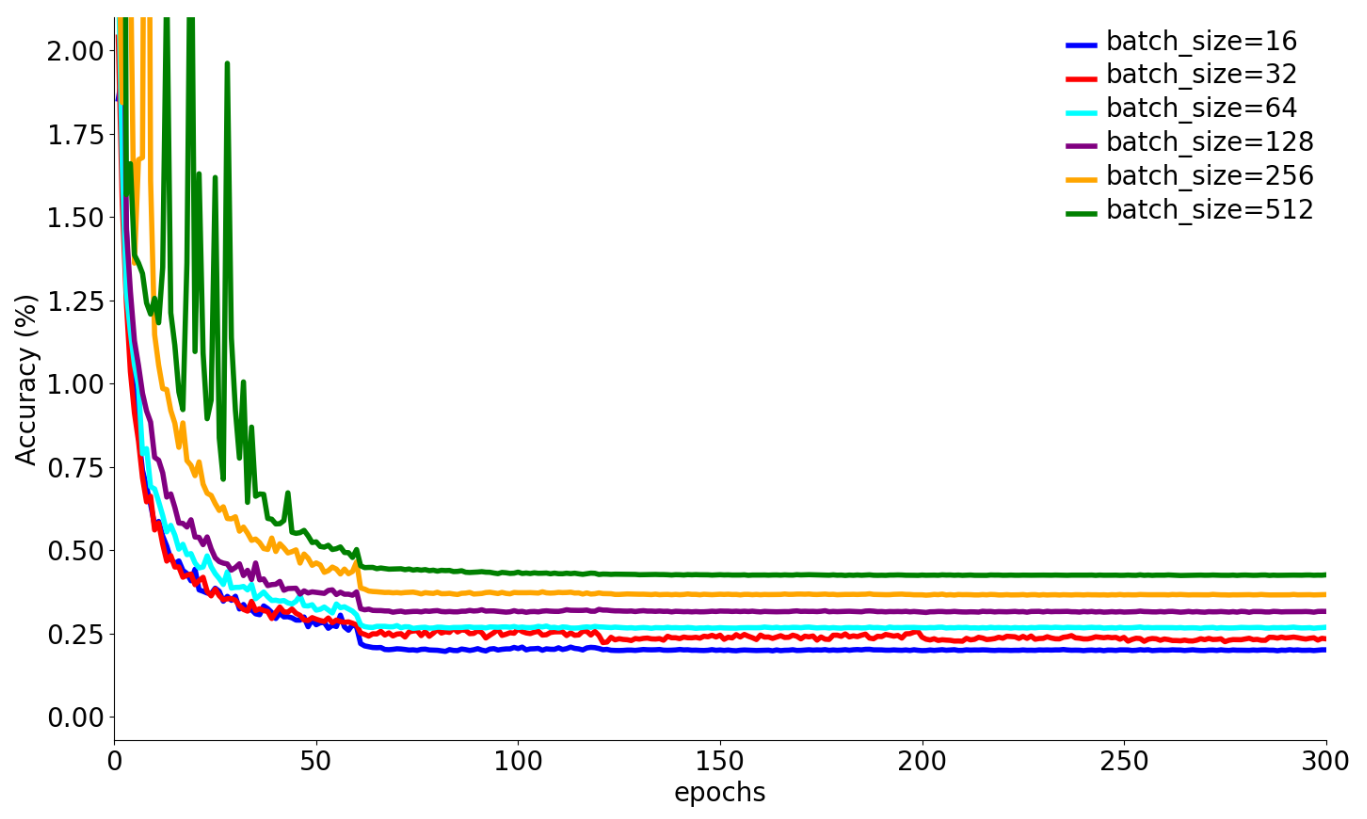
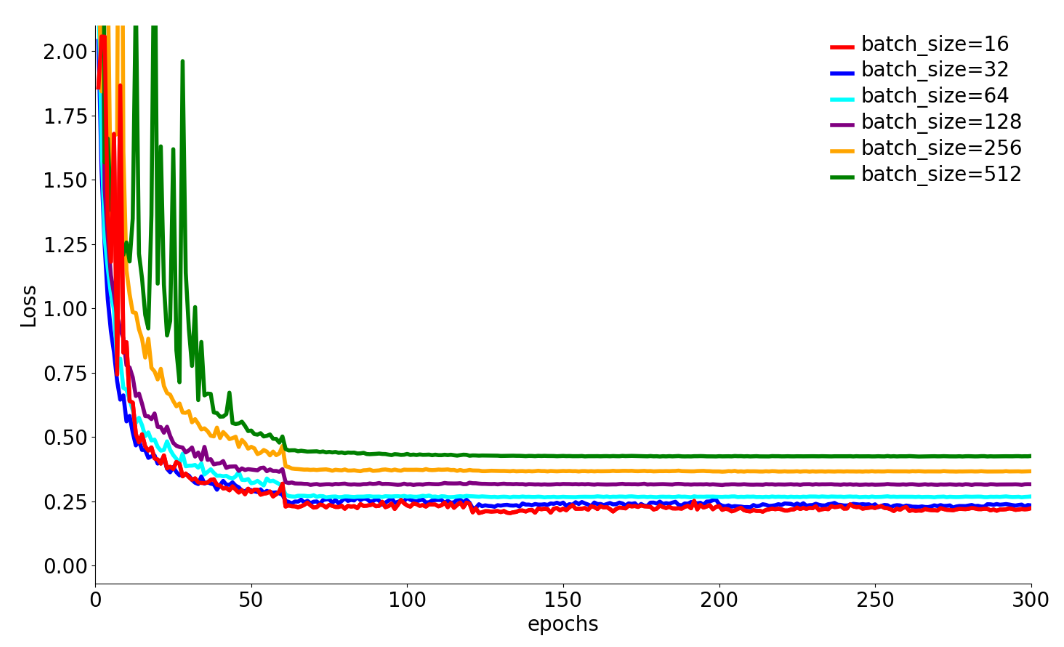
update README

diff --git a/utils/plot.py b/utils/plot.py
@@ -37,10 +37,16 @@ def plot_example(ys, xlabel, ylabel):
 
     # 画图
     for y, legend, color in zip(ys, legends, colors):
-        if legend != "batch_size=16":
-            continue
+        # if legend != "batch_size=16":
+        #     continue
         # y = [i * 100 for i in y]
         plt.plot(x, y, color=color, label=legend, linewidth=linewidth, markersize=markersize)
+
+    for y, legend, color in zip([ys[0]], [legends[0]], [colors[0]]):
+        # if legend != "batch_size=16":
+        #     continue
+        # y = [i * 100 for i in y]
+        plt.plot(x, y, color=color, label=None, linewidth=linewidth, markersize=markersize)
 
     # 获取坐标轴
     ax = plt.gca()
@@ -72,10 +78,10 @@ def plot_example(ys, xlabel, ylabel):
     plt.ylim(-0.07, 2.1)
 
     # 图例
-    # plt.legend(loc=1, numpoints=1, ncol=1, frameon=False)
-    # leg = plt.gca().get_legend()
-    # ltext = leg.get_texts()
-    # plt.setp(ltext, fontsize=legend_fontsize, fontweight='normal')  # 设置图例字体的大小和粗细
+    plt.legend(loc=1, numpoints=1, ncol=1, frameon=False)
+    leg = plt.gca().get_legend()
+    ltext = leg.get_texts()
+    plt.setp(ltext, fontsize=legend_fontsize, fontweight='normal')  # 设置图例字体的大小和粗细
 
     # plt.savefig('./res.png', format='png')  # 建议保存为svg格式,再用inkscape转为矢量图emf后插入word中
     plt.show()
@@ -89,7 +95,7 @@ def visualize(json_path, epochs):
             loss.append(loss[-1])
         losses.append(loss)
 
-    plot_example(losses, xlabel="epochs", ylabel="Accuracy (%)")
+    plot_example(losses, xlabel="epochs", ylabel="Loss")
 
 
 if __name__ == '__main__':
